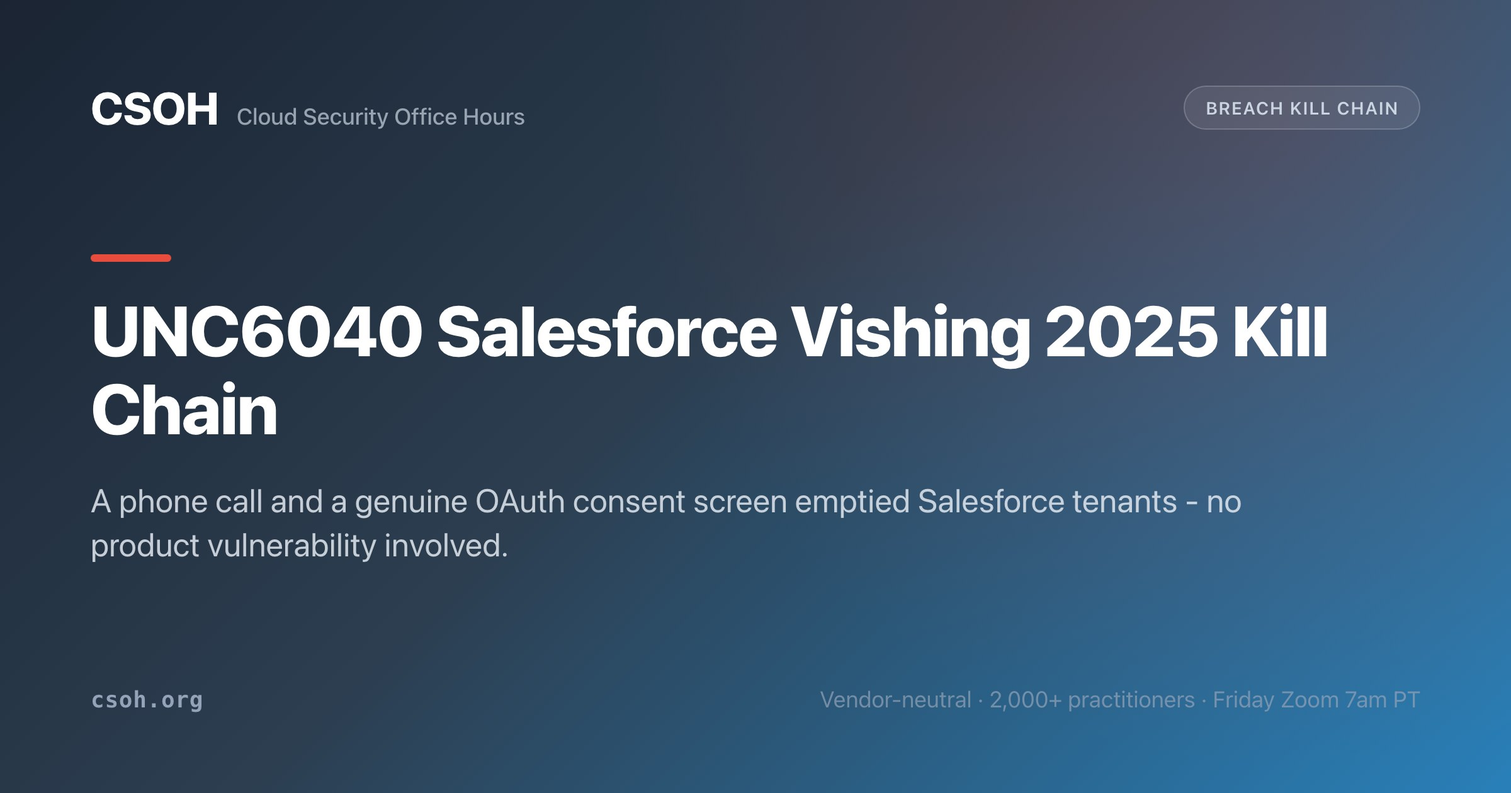
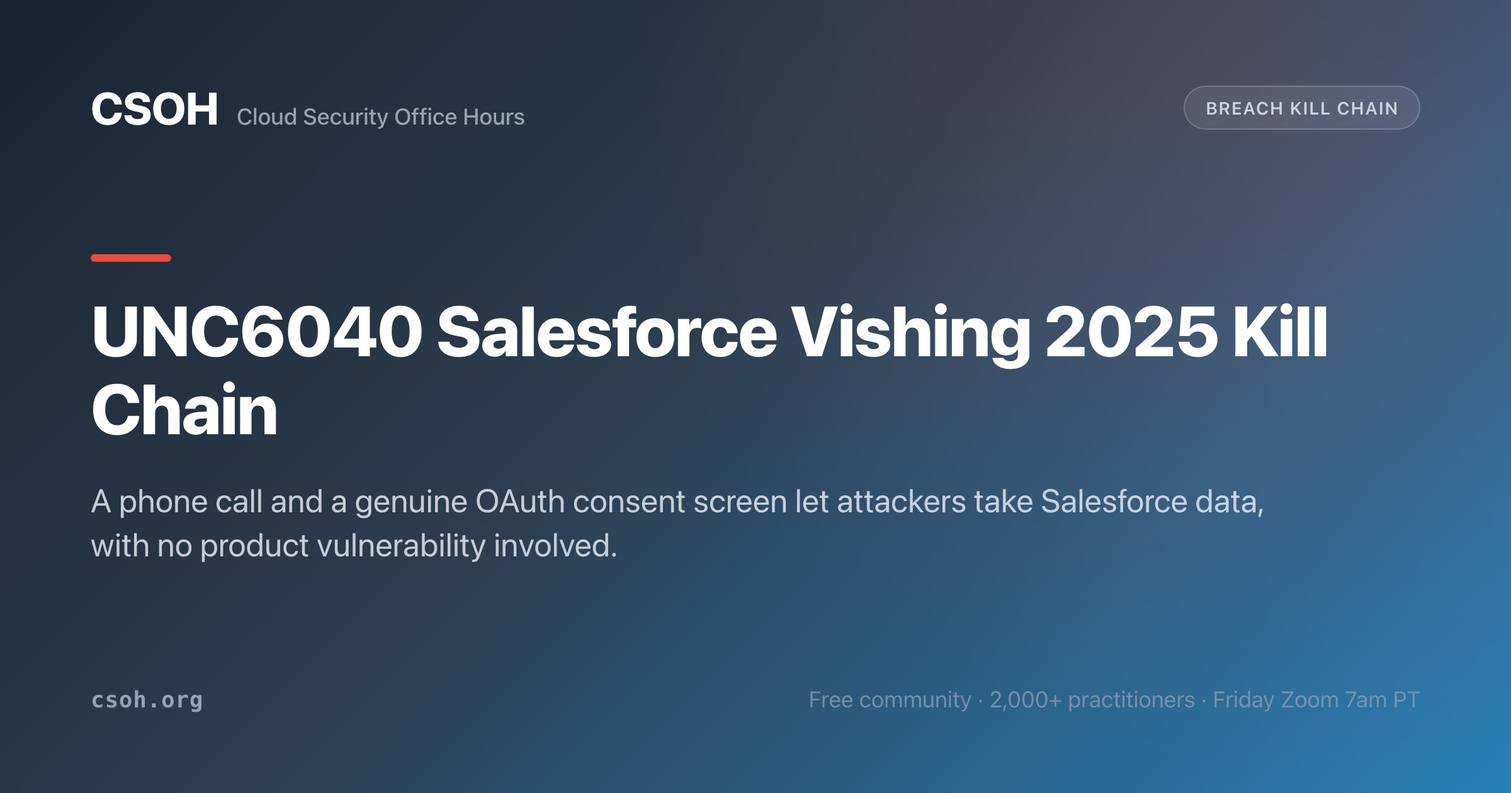
breaches: UNC6040 says who was impersonated, what the app was called, and keeps Google's hedges
Google Threat Intelligence Group's "The Cost of a Call" (June 4, 2025, with
its August updates) is the source for each change.

Title: the callers impersonated IT support and called employees ("having its
operators impersonate IT support personnel ... tricking employees"); they did
not vish the help desk. The chain now opens "Impersonating IT Support by
Phone" in the inc-title, the JSON-LD headline, and the breach-timeline card
and ItemList.

Stage 02: Google says the app was "often a modified version of Salesforce's
Data Loader, not authorized by Salesforce", approved under "a name or
branding that differs from the legitimate version", and in some cases named
"My Ticket Portal" to match the pretext. The page said the employee saw "a
tool name they recognized" and that the caller was the "only false element";
the prose, step title and step code now say the name or branding differed,
and the timeline card says the caller and the app were not genuine. "Tool
impersonated" becomes "Tool abused", Google's word for it.

Google's instance: one of Google's corporate Salesforce instances lost basic,
largely public business information "during a small window of time before
the access was cut off". The og/twitter descriptions and the OG card no
longer say tenants were "emptied"; the stat, summary and timeline card say
"one of Google's own" instances.

Months later: Google says "sometimes several months after" and "In some
[…]

Changed region(s): [[0.0625, 0.681, 0.4062, 0.7119], [0.5312, 0.619, 0.8438, 0.65], [0.5312, 0.8667, 0.6562, 0.8976]]

diff --git a/breaches/unc6040-salesforce-vishing.html b/breaches/unc6040-salesforce-vishing.html
@@ -19,12 +19,12 @@
     <meta name="apple-mobile-web-app-title" content="CSOH">
 
     <meta property="og:title" content="UNC6040 Salesforce Vishing 2025 Kill Chain">
-    <meta property="og:description" content="How a phone call and a genuine OAuth consent screen emptied Salesforce tenants - including Google's own - with no product vulnerability exploited.">
+    <meta property="og:description" content="How a phone call and a genuine OAuth consent screen let UNC6040 take data from Salesforce tenants, including one of Google's own, with no product vulnerability exploited.">
     <meta property="og:site_name" content="Cloud Security Office Hours">
     <meta property="og:locale" content="en_US">
     <meta property="og:type" content="article">
     <meta property="article:published_time" content="2026-04-30">
-    <meta property="article:modified_time" content="2026-09-27">
+    <meta property="article:modified_time" content="2026-11-22">
     <meta property="article:author" content="Cloud Security Office Hours">
     <meta property="article:section" content="Breach Kill Chains">
     <meta property="article:tag" content="UNC6040">
@@ -43,7 +43,7 @@
     <meta property="og:image" content="https://csoh.org/img/og/breaches/unc6040-salesforce-vishing.jpg">
     <meta name="twitter:card" content="summary_large_image">
     <meta name="twitter:title" content="UNC6040 Salesforce Vishing 2025 Kill Chain">
-    <meta name="twitter:description" content="How a phone call and a genuine OAuth consent screen emptied Salesforce tenants - including Google's own - with no product vulnerability exploited.">
+    <meta name="twitter:description" content="How a phone call and a genuine OAuth consent screen let UNC6040 take data from Salesforce tenants, including one of Google's own, with no product vulnerability exploited.">
     <meta name="twitter:image" content="https://csoh.org/img/og/breaches/unc6040-salesforce-vishing.jpg">
 
     <link rel="preconnect" href="https://csoh.kit.com" crossorigin>
@@ -63,7 +63,7 @@
 {
   "@context": "https://schema.org",
   "@type": "NewsArticle",
-  "headline": "UNC6040 - Vishing the Help Desk → Victim Authorizes a Fake Data Loader → OAuth Connected App → Bulk Salesforce Exfiltration → Extortion Months Later",
+  "headline": "UNC6040 - Impersonating IT Support by Phone → Victim Authorizes a Fake Data Loader → OAuth Connected App → Bulk Salesforce Exfiltration → Extortion, Sometimes Months Later",
   "description": "UNC6040 phoned employees as IT support and talked them through authorizing a fake Salesforce Data Loader, exfiltrating CRM data with no Salesforce vulnerability involved.",
   "author": {
     "@type": "Organization",
@@ -79,7 +79,7 @@
     }
   },
   "datePublished": "2026-04-30",
-  "dateModified": "2026-09-27",
+  "dateModified": "2026-11-22",
   "mainEntityOfPage": "https://csoh.org/breaches/unc6040-salesforce-vishing.html",
   "speakable": {
     "@type": "SpeakableSpecification",
@@ -94,7 +94,7 @@
     "@type": "Event",
     "name": "UNC6040 Salesforce Voice Phishing Campaign",
     "startDate": "2025-06",
-    "description": "UNC6040 used voice phishing to persuade employees to authorize an attacker-controlled build of Salesforce Data Loader as a connected app, then exfiltrated CRM data in bulk; extortion followed months later under the ShinyHunters name."
+    "description": "UNC6040 used voice phishing to persuade employees to authorize an attacker-controlled build of Salesforce Data Loader as a connected app, then exfiltrated CRM data in bulk; extortion sometimes followed months later, from actors claiming to be ShinyHunters."
   },
   "mentions": [
     {
@@ -350,13 +350,13 @@
       <span class="sev-badge sev-critical">Critical</span>
       <span class="prov-tag prov-blue">Salesforce</span>
     </div>
-    <h2 class="inc-title">UNC6040 - Vishing the Help Desk → Victim Authorizes a Fake Data Loader → OAuth Connected App → Bulk Salesforce Exfiltration → Extortion Months Later</h2>
-    <p class="inc-summary">Google <a class="glossary-link" href="../glossary.html#term-threat-intelligence">Threat Intelligence</a> first reported UNC6040 in June 2025: a financially motivated cluster that compromised Salesforce tenants without exploiting a single Salesforce vulnerability. Operators phoned employees at English-speaking branches of multinationals impersonating IT support, walked them through Salesforce's own connected-app authorization page, and had them enter a connection code that authorized an attacker-controlled build of Salesforce's Data Loader tool. From that point the app queried and exported data with the victim's own permissions. Victims included Google's own corporate Salesforce instance, along with fashion houses and technology firms. Extortion arrived separately and sometimes months later. Google tracks that follow-on activity as UNC6240, which demands bitcoin within 72 hours and claims affiliation with ShinyHunters, likely for pressure. The chain that matters here is the one where a legitimate consent screen, shown to a real employee who was told to expect it, is the entire attack.</p>
+    <h2 class="inc-title">UNC6040 - Impersonating IT Support by Phone → Victim Authorizes a Fake Data Loader → OAuth Connected App → Bulk Salesforce Exfiltration → Extortion, Sometimes Months Later</h2>
+    <p class="inc-summary">Google <a class="glossary-link" href="../glossary.html#term-threat-intelligence">Threat Intelligence</a> first reported UNC6040 in June 2025: a financially motivated cluster that compromised Salesforce tenants without exploiting a single Salesforce vulnerability. Operators phoned employees at English-speaking branches of multinationals impersonating IT support, walked them through Salesforce's own connected-app authorization page, and had them enter a connection code that authorized an attacker-controlled build of Salesforce's Data Loader tool. From that point the app queried and exported data with the victim's own permissions. Victims included one of Google's own corporate Salesforce instances, along with fashion houses and technology firms. Extortion arrived separately and sometimes months later. Google tracks that follow-on activity as UNC6240, which demands bitcoin within 72 hours and claims affiliation with ShinyHunters, likely for pressure. The chain that matters here is the one where a legitimate consent screen, shown to a real employee who was told to expect it, is the entire attack.</p>
     <div class="inc-stats">
       <div class="inc-stat"><strong>No Salesforce vulnerability</strong> was exploited at any point</div>
-      <div class="inc-stat"><strong>Google's own</strong> corporate Salesforce instance was among the victims</div>
+      <div class="inc-stat"><strong>One of Google's own</strong> corporate Salesforce instances was among the victims</div>
       <div class="inc-stat"><strong>72 hours.</strong> The bitcoin deadline in the follow-on extortion</div>
-      <div class="inc-stat"><strong>Months</strong> often separated the theft from the extortion</div>
+      <div class="inc-stat"><strong>Months</strong> sometimes separated the theft from the extortion</div>
     </div>
     <a class="pm-link" href="https://cloud.google.com/blog/topics/threat-intelligence/voice-phishing-data-extortion" target="_blank" rel="noopener">📄 Google Threat Intelligence - Voice phishing and data extortion ↗</a>
     <a class="pm-link" href="https://thehackernews.com/2025/06/google-exposes-vishing-group-unc6040.html" target="_blank" rel="noopener">📄 The Hacker News - Google exposes UNC6040 ↗</a>
@@ -390,18 +390,19 @@
       <div class="step-num">02</div>
       <div class="step-body">
         <div class="step-hdr">
-          <div class="step-title">The caller directed the victim to Salesforce's genuine connected-app setup page and had them enter an attacker-supplied connection code, authorizing a modified Data Loader</div>
+          <div class="step-title">The caller directed the victim to Salesforce's genuine connected-app setup page and had them enter an attacker-supplied connection code, authorizing an attacker-controlled Data Loader</div>
           <a class="mt mt-ta" href="https://attack.mitre.org/techniques/T1204/001/" target="_blank" rel="noopener">T1204.001 - User Execution: Malicious Link</a>
           <a class="mt mt-ca" href="https://attack.mitre.org/techniques/T1528/" target="_blank" rel="noopener">T1528 - Steal Application Access Token</a>
         </div>
         <p class="step-desc">This is the elegant part, and the reason no product vulnerability was needed. Salesforce's Data Loader is a legitimate bulk import and export tool that connects through OAuth as a connected app. </p>
-        <p class="step-desc">The operator supplied a modified build with altered name and branding, not published by Salesforce, and walked the victim through Salesforce's own authorization flow to link it. Everything the employee saw was real: the genuine Salesforce domain, the genuine consent page, a tool name they recognized, and a helpful colleague on the phone explaining why it was needed. </p>
-        <p class="step-desc">The only false element was the identity of the person asking. Consent screens are a poor control at the exact moment they matter most, because a user who has been told to expect one and given a plausible reason will approve it, and the interface offers them nothing that distinguishes this app from the real thing.</p>
+        <p class="step-desc">The operator's app was often a modified build of Data Loader, not authorized by Salesforce, with a name or branding that differed from the legitimate version. In some cases Google saw it named "My Ticket Portal" to fit the pretext of the call. The operator walked the victim through Salesforce's own authorization flow to link it. The Salesforce domain and the consent page were genuine; the helpful colleague on the phone explaining why the app was needed was not. </p>
+        <p class="step-desc">Consent screens are a poor control at the exact moment they matter most, because a user who has been told to expect one and given a plausible reason will approve it, and nothing on the screen tells them the app is not what the caller says it is.</p>
         <div class="step-code">
-          <span class="hl">Tool impersonated:</span> Salesforce Data Loader, a legitimate bulk import/export utility<br>
+          <span class="hl">Tool abused:</span> Salesforce Data Loader, a legitimate bulk import/export utility<br>
           <span class="hl">Mechanism:</span> Attacker-controlled connected app, authorized via a supplied connection code<br>
-          <span class="hl">Everything genuine:</span> The domain, the consent page, the flow, the tool's apparent name<br>
-          <span class="hl">Only false element:</span> Who was asking, and why<br>
+          <span class="hl">Genuine:</span> The domain, the consent page, the flow<br>
+          <span class="hl">Name or branding:</span> Differed from the legitimate Data Loader; in some cases "My Ticket Portal", to fit the pretext<br>
+          <span class="hl">Not genuine:</span> Who was asking, and why<br>
           <span class="hl">Later evolution:</span> The group moved from Data Loader to custom Python scripts doing the same job
         </div>
         <div class="step-tags"><span class="stag">Connected App</span><span class="stag">OAuth Consent</span><span class="stag">Data Loader</span><span class="stag">T1528</span></div>
@@ -414,7 +415,7 @@
       <div class="step-body">
         <div class="step-hdr">
           <div class="step-title">Once consent was granted the app made API calls as that user, independent of the session, the password, and any subsequent MFA prompt</div>
-          <a class="mt mt-pe" href="https://attack.mitre.org/techniques/T1550/001/" target="_blank" rel="noopener">T1550.001 - Application Access Token</a>
+          <a class="mt mt-pe" href="https://attack.mitre.org/techniques/T1550/001/" target="_blank" rel="noopener">T1550.001 - Use Alternate Authentication Material: Application Access Token</a>
         </div>
         <p class="step-desc">The call ends and the access does not. An OAuth grant is a durable authorization that operates on its own credential, so it survives the user logging out, changing their password, or completing an MFA challenge for something else. </p>
         <p class="step-desc">Nothing in the victim's normal experience signals its existence, and nothing in the standard account-hygiene <a class="glossary-link" href="../glossary.html#term-runbook">playbook</a> revokes it. This is the same structural property that made <a href="salesloft-drift-unc6395.html">Salesloft Drift</a> and <a href="vercel-context-ai-oauth.html">Vercel / Context.ai</a> so effective, reached here by talking a person into creating the grant rather than by stealing one that already existed. The only reliable kill switch is revoking the connected app itself, and that requires knowing it is there.</p>
@@ -437,14 +438,14 @@
           <a class="mt mt-ef" href="https://attack.mitre.org/techniques/T1213/" target="_blank" rel="noopener">T1213 - Data from Information Repositories</a>
           <a class="mt mt-ef" href="https://attack.mitre.org/techniques/T1030/" target="_blank" rel="noopener">T1030 - Data Transfer Size Limits</a>
         </div>
-        <p class="step-desc">Google observed a deliberate two-phase pattern: small chunk sizes at first for reconnaissance, working out which objects mattered and what the schema looked like, then a sharp increase in volume to take entire tables once the operator knew what was worth having. Proficiency varied noticeably between intrusions, which suggests different hands on different jobs; in one case only about ten percent of the data was retrieved before detection cut it short. </p>
-        <p class="step-desc">That variance is the encouraging detail, because it means detection latency directly determined loss. The control that mattered was volumetric alerting on export activity, and where it existed it worked.</p>
+        <p class="step-desc">In one intrusion Google observed a deliberate two-phase pattern: small chunk sizes at first for reconnaissance, working out which objects mattered and what the schema looked like, then a sharp increase in volume to take entire tables once the operator knew what was worth having. Proficiency varied noticeably between intrusions, which suggests different hands on different jobs; in another, only about ten percent of the data was retrieved before the access was detected and revoked. </p>
+        <p class="step-desc">That variance is the encouraging detail, because it means detection latency directly determined loss. Google recommends Transaction Security Policies that alert on large data downloads, which it calls a common sign of Data Loader abuse.</p>
         <div class="step-code">
           <span class="hl">Phase 1:</span> Small chunks, reconnaissance of objects and schema<br>
           <span class="hl">Phase 2:</span> Sharply increased volume, whole-table extraction<br>
           <span class="hl">Variance:</span> Operator proficiency differed across intrusions; one victim lost only ~10% before detection<br>
           <span class="hl">Implication:</span> Detection latency directly determined how much was lost<br>
-          <span class="hl">Control that works:</span> Transaction Security Policies alerting on large exports
+          <span class="hl">Control Google recommends:</span> Transaction Security Policies alerting on large exports
         </div>
         <div class="step-tags"><span class="stag">Bulk Export</span><span class="stag">Staged Volume</span><span class="stag">API Enabled</span><span class="stag">T1213</span></div>
       </div>
@@ -470,7 +471,7 @@
       </div>
     </div>
 
-    <div class="phase-lbl ph-impact">💰 Impact: Extortion Arrives Months Later, Under a Borrowed Name</div>
+    <div class="phase-lbl ph-impact">💰 Impact: Extortion, Sometimes Months Later, Under a Borrowed Name</div>
     <div class="kc-step step-c">
       <div class="step-num">06</div>
       <div class="step-body">
@@ -478,14 +479,14 @@
           <div class="step-title">Google tracks the follow-on extortion separately as UNC6240, which demanded bitcoin within 72 hours and claimed ShinyHunters affiliation</div>
           <a class="mt mt-ef" href="https://attack.mitre.org/techniques/T1657/" target="_blank" rel="noopener">T1657 - Financial Theft</a>
         </div>
-        <p class="step-desc">The gap between theft and extortion frequently ran to months, and Google tracks the monetization as a separate cluster, UNC6240, suggesting UNC6040 sells or hands off access rather than extorting directly. Demands came by call or email to employees, wanted bitcoin within 72 hours, were sent from addresses including <code>shinycorp@tuta[.]com</code> and <code>shinygroup@tuta[.]com</code>, and asserted affiliation with ShinyHunters, a claim Google treats as likely pressure tactics rather than established fact. </p>
+        <p class="step-desc">The gap between theft and extortion sometimes ran to months, and Google tracks the monetization as a separate cluster, UNC6240, suggesting UNC6040 sells or hands off access rather than extorting directly. Demands came by call or email to employees, wanted bitcoin within 72 hours, were sent from addresses including <code>shinycorp@tuta[.]com</code> and <code>shinygroup@tuta[.]com</code>, and asserted affiliation with ShinyHunters, a claim Google treats as likely pressure tactics rather than established fact. </p>
         <p class="step-desc">Two practical consequences follow. First, an organization can be months past a successful intrusion with no signal at all, so a vishing report from a single employee deserves a real investigation rather than a note. Second, a familiar crew name in a ransom note is a marketing claim, and treating it as attribution will send an investigation in the wrong direction.</p>
         <div class="step-code">
-          <span class="hl">Separate cluster:</span> UNC6240 handles monetization, often months after the theft<br>
+          <span class="hl">Separate cluster:</span> UNC6240 handles monetization, sometimes months after the theft<br>
           <span class="hl">Demand:</span> Bitcoin within 72 hours, by call or email to employees<br>
           <span class="hl">Branding:</span> ShinyHunters affiliation claimed; Google treats it as a pressure tactic<br>
           <span class="hl">Addresses seen:</span> <code>shinycorp@tuta[.]com</code>, <code>shinygroup@tuta[.]com</code><br>
-          <span class="hl">Escalation:</span> The actors were preparing a data leak site for additional pressure
+          <span class="hl">Escalation:</span> Google said it believed actors using the ShinyHunters brand may be preparing a data leak site for additional pressure
         </div>
         <div class="step-tags"><span class="stag">UNC6240</span><span class="stag">Delayed Extortion</span><span class="stag">Borrowed Branding</span><span class="stag">T1657</span></div>
       </div>
@@ -496,9 +497,9 @@
       <div class="def-items">
         <div class="def-item"><strong>Allowlist connected apps, and restrict who can authorize one.</strong> This is the control that ends the chain outright. Restrict "Customize Application" and "Manage Connected Apps" to a small set of trusted administrators, require an approval process before any new connected app is authorized, and allowlist known-good applications so an unapproved Data Loader build cannot be linked at all. A user who cannot grant the consent cannot be talked into granting it.</div>
         <div class="def-item"><strong>Treat the "API Enabled" permission as the export permission it is.</strong> Bulk extraction depended on the compromised user's own rights. Restrict API access to people whose jobs genuinely require it, limit Data Loader use to that same set, and audit profiles and permission sets regularly for accounts that accumulated the capability and never gave it back. Most organizations grant this far more widely than the work requires.</div>
-        <div class="def-item"><strong>Alert on export volume, because the credential and the app will both look legitimate.</strong> Salesforce Shield Transaction Security Policies can fire on large data downloads, and Event Monitoring gives per-user API and data-access patterns. Feed both into your <a class="glossary-link" href="../glossary.html#term-siem">SIEM</a> and baseline them. The victim who lost only ten percent lost only ten percent because someone noticed the volume, which is the whole argument in one data point.</div>
+        <div class="def-item"><strong>Alert on export volume, because the credential and the app will both look legitimate.</strong> Salesforce Shield Transaction Security Policies can fire on large data downloads, and Event Monitoring gives per-user API and data-access patterns. Feed both into your <a class="glossary-link" href="../glossary.html#term-siem">SIEM</a> and baseline them. In one intrusion Google reports, the actor got only about ten percent of the data before detection and access revocation cut it off. Google does not say what raised the alarm, but the sooner something does, the less data leaves.</div>
         <div class="def-item"><strong>Bind access to network location so VPN-originated authorizations fail.</strong> Calls and collection came from Mullvad and TOR addresses. Login IP ranges and trusted IP ranges on user profiles, plus IP restrictions in connected app policies, block or challenge authorization attempts from unexpected sources. It will not stop a determined actor with better infrastructure, but it removes the cheap version entirely.</div>
-        <div class="def-item"><strong>Harden the human process the same way you would a technical one.</strong> Give staff an unambiguous rule that IT will never ask them to authorize an application or enter a connection code during an unsolicited call, and give them a verified call-back path to use instead. Train specifically on this scenario rather than generic phishing awareness, and make reporting a suspicious call frictionless and blameless - the extortion may arrive months later, so that one report may be the only early warning available.</div>
+        <div class="def-item"><strong>Harden the human process the same way you would a technical one.</strong> Give staff an unambiguous rule that IT will never ask them to authorize an application or enter a connection code during an unsolicited call, and give them a verified call-back path to use instead. Train specifically on this scenario rather than generic phishing awareness, and make reporting a suspicious call frictionless and blameless. The extortion may arrive months later, so that one report may be the only early warning available.</div>
         <div class="def-item"><strong>Scope the response to the identity estate, and audit grants you never approved.</strong> Because credentials from these calls were reused against Okta and Microsoft 365, a confirmed vishing success means reviewing the identity provider too. Then run the audit that finds the quiet version of this attack: enumerate every connected app and OAuth grant in your <a class="glossary-link" href="../glossary.html#term-tenant">tenant</a>, confirm each has a named owner and a business reason, and revoke the rest.</div>
       </div>
     </div>

diff --git a/breach-timeline.html b/breach-timeline.html
@@ -285,7 +285,7 @@
       "@type": "ListItem",
       "position": 32,
       "url": "https://csoh.org/breaches/unc6040-salesforce-vishing.html",
-      "name": "UNC6040 - Vishing the Help Desk → Victim Authorizes a Fake Data Loader → OAuth Connected App → Bulk Salesforce Exfiltration → Extortion Months Later"
+      "name": "UNC6040 - Impersonating IT Support by Phone → Victim Authorizes a Fake Data Loader → OAuth Connected App → Bulk Salesforce Exfiltration → Extortion, Sometimes Months Later"
     },
     {
       "@type": "ListItem",
@@ -1141,8 +1141,8 @@
                     <span class="sev-badge sev-critical">Critical</span>
                     <span class="prov-tag prov-blue">Salesforce</span>
                 </div>
-                <h2 class="breach-card-title">UNC6040 - Vishing the Help Desk → Victim Authorizes a Fake Data Loader → OAuth Connected App → Bulk Salesforce Exfiltration → Extortion Months Later</h2>
-                <p class="breach-card-summary">No Salesforce vulnerability was exploited at any point. Operators phoned employees as IT support and walked them through Salesforce's own consent page to authorize a fake Data Loader. Everything the victim saw was genuine except who was asking. Google's own corporate instance was among the victims; extortion arrived months later…</p>
+                <h2 class="breach-card-title">UNC6040 - Impersonating IT Support by Phone → Victim Authorizes a Fake Data Loader → OAuth Connected App → Bulk Salesforce Exfiltration → Extortion, Sometimes Months Later</h2>
+                <p class="breach-card-summary">No Salesforce vulnerability was exploited at any point. Operators phoned employees as IT support and walked them through Salesforce's own consent page to authorize a fake Data Loader. The domain and consent page were genuine; the caller and the app were not. One of Google's own corporate instances was among the victims; extortion sometimes arrived months later…</p>
                 <span class="breach-card-cta">Read kill chain →</span>
             </a>
         </li>

diff --git a/tools/generate_og_images.py b/tools/generate_og_images.py
@@ -612,7 +612,7 @@ PAGES = [
      "Breach Kill Chain"),
     ("breaches/unc6040-salesforce-vishing.html",
      "UNC6040 Salesforce Vishing 2025 Kill Chain",
-     "A phone call and a genuine OAuth consent screen emptied Salesforce tenants - no product vulnerability involved.",
+     "A phone call and a genuine OAuth consent screen let attackers take Salesforce data, with no product vulnerability involved.",
      "Breach Kill Chain"),
     ("breaches/sharepoint-toolshell.html",
      "SharePoint ToolShell 2025 Kill Chain",
